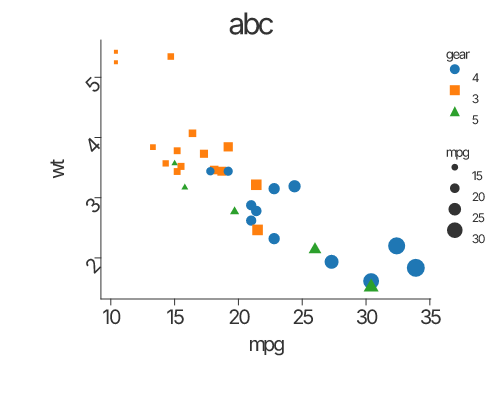
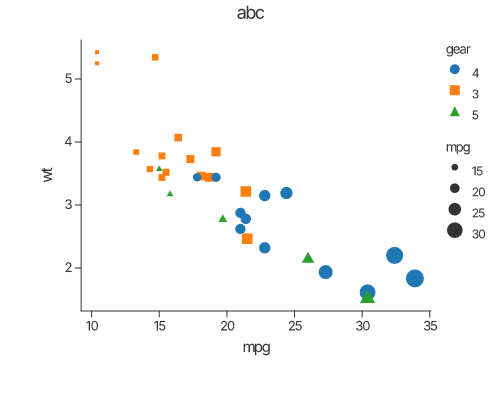
chars gap

diff --git a/src/render/backend/raster.rs b/src/render/backend/raster.rs
@@ -267,157 +267,125 @@ impl<'a> RenderBackend for RasterBackend<'a> {
         }
     }
 
-    fn draw_text(&mut self, config: TextConfig) {
-        // 1. Safety check: avoid unnecessary processing for empty text or missing colors
-        if config.color.is_none() || config.text.is_empty() {
-            return;
-        }
-
-        // --- VECTOR TUNING: STEM DARKENING ---
-        // Pure vector rendering often looks "thin" on digital screens because anti-aliasing
-        // softens the edges. Adding a very fine stroke (0.2px) mimics "Stem Darkening",
-        // a technique used by high-end engines like FreeType to make text look bolder and more legible.
-        const STEM_DARKENING_WIDTH: f32 = 0.01;
-
-        // Load font and scale it to the requested pixel size
-        let font = crate::core::utils::get_raster_font(&config.font_family);
-        let scale = PxScale::from(config.font_size);
-        let scaled_font = font.as_scaled(scale);
-
-        // Initial cursor coordinates (using f32 for sub-pixel precision to maintain "vector feel")
-        let mut x = config.x as f32;
-        let mut y = config.y as f32;
-
-        // 2. LAYOUT CALCULATION: Handle text alignment (Start, Middle, End)
-        let width = self.get_precise_width(&config.text, scale, &font);
-        match config.text_anchor.as_str() {
-            "middle" => x -= width / 2.0,
-            "end" => x -= width,
-            _ => {}
-        }
-
-        // 3. BASELINE CALCULATION: Handle vertical positioning (Dominant Baseline)
-        let ascent = scaled_font.ascent();
-        let descent = scaled_font.descent();
-        match config.dominant_baseline.as_str() {
-            "hanging" => y += ascent,
-            "central" | "middle" => y += (ascent - descent) / 2.0 - descent,
-            _ => {}
-        }
-
-        // Prepare Skia-style paint and color
-        let base_color = self.to_skia_color(&config.color, config.opacity).unwrap();
-        let mut paint = tiny_skia::Paint::default();
-        paint.set_color(base_color);
-        paint.anti_alias = true; // Crucial for smooth, non-pixelated vector edges
-
-        // Constants for mapping font units (EM) to screen pixels
-        let mut last_glyph_id = None;
-        let units_per_em = font.units_per_em().unwrap_or(1000.0) as f32;
-        let font_to_px_scale = (config.font_size as f32) / units_per_em;
-
-        // Iterate through each character in the string
-        for c in config.text.chars() {
-            let glyph_id = font.glyph_id(c);
-
-            // Apply Kerning: Adjust horizontal spacing between specific pairs (e.g., 'AV')
-            if let Some(last_id) = last_glyph_id {
-                x += scaled_font.kern(last_id, glyph_id);
-            }
-
-            // Retrieve the vector outline for the current glyph
-            if let Some(outline) = font.outline(glyph_id) {
-                let mut pb = tiny_skia::PathBuilder::new();
-
-                // Helper closure to convert font-space points to screen-space pixels
-                // Note: We flip the Y coordinate because font space is Y-up and screen space is Y-down.
-                let map_p = |p: ab_glyph::Point| (p.x * font_to_px_scale, -p.y * font_to_px_scale);
-
-                // --- CRITICAL FIX: PATH CONTINUITY ---
-                // To fill a shape, the path must be a continuous series of connected lines/curves.
-                // We track 'current_pen_pos' to avoid redundant 'move_to' calls, which break the shape.
-                let mut current_pen_pos: Option<ab_glyph::Point> = None;
-
-                for curve in outline.curves {
-                    // Determine the start and end points of the current segment
-                    let (start_pt, end_pt) = match curve {
-                        ab_glyph::OutlineCurve::Line(p1, p2) => (p1, p2),
-                        ab_glyph::OutlineCurve::Quad(p1, _, p3) => (p1, p3),
-                        ab_glyph::OutlineCurve::Cubic(p1, _, _, p4) => (p1, p4),
-                    };
-
-                    // Only "lift the pen" and move if the new segment doesn't start where the last one ended.
-                    // This ensures we create closed 'contours' that can be filled with color.
-                    if current_pen_pos != Some(start_pt) {
-                        let (sx, sy) = map_p(start_pt);
-                        pb.move_to(sx, sy);
-                    }
-
-                    // Add the specific geometric primitive to the path
-                    match curve {
-                        ab_glyph::OutlineCurve::Line(_, p2) => {
-                            let (px, py) = map_p(p2);
-                            pb.line_to(px, py);
-                        }
-                        ab_glyph::OutlineCurve::Quad(_, p2, p3) => {
-                            let (p2x, p2y) = map_p(p2);
-                            let (p3x, p3y) = map_p(p3);
-                            pb.quad_to(p2x, p2y, p3x, p3y);
-                        }
-                        ab_glyph::OutlineCurve::Cubic(_, p2, p3, p4) => {
-                            let (p2x, p2y) = map_p(p2);
-                            let (p3x, p3y) = map_p(p3);
-                            let (p4x, p4y) = map_p(p4);
-                            pb.cubic_to(p2x, p2y, p3x, p3y, p4x, p4y);
-                        }
-                    }
-                    // Update the pen position for the next iteration
-                    current_pen_pos = Some(end_pt);
-                }
-
-                // Finalize the path and apply transformations
-                if let Some(path) = pb.finish() {
-                    let mut transform = self.transform;
-
-                    // 4. ROTATION LOGIC: Rotate around the anchor point (config.x, config.y)
-                    if config.angle != 0.0 {
-                        transform = transform
-                            .pre_translate(config.x as f32, config.y as f32)
-                            .pre_rotate(config.angle as f32)
-                            .pre_translate(-(config.x as f32), -(config.y as f32));
-                    }
-
-                    // Position the high-res vector path at the current cursor 'x' and 'y'
-                    transform = transform.pre_translate(x, y);
-
-                    // --- RENDERING PHASE ---
-
-                    // Pass 1: FILL (The core color)
-                    // This fills the interior of the closed path. Since the path is now continuous,
-                    // the interior will be solid and dark.
-                    self.pixmap.fill_path(
-                        &path,
-                        &paint,
-                        tiny_skia::FillRule::Winding,
-                        transform,
-                        None,
-                    );
-
-                    // Pass 2: STROKE (The darkening agent)
-                    // We add a tiny stroke to reinforce the edges. This compensates for
-                    // LCD/OLED sub-pixel rendering effects that can make thin fonts look grey.
-                    let mut stroke = tiny_skia::Stroke::default();
-                    stroke.width = STEM_DARKENING_WIDTH;
-                    self.pixmap
-                        .stroke_path(&path, &paint, &stroke, transform, None);
-                }
-            }
-
-            // Move the cursor forward by the glyph's advance width for the next character
-            x += scaled_font.h_advance(glyph_id);
-            last_glyph_id = Some(glyph_id);
-        }
+fn draw_text(&mut self, config: TextConfig) {
+    if config.color.is_none() || config.text.is_empty() {
+        return;
     }
+
+    let font = crate::core::utils::get_raster_font(&config.font_family);
+    let scale = PxScale::from(config.font_size);
+    let scaled_font = font.as_scaled(scale);
+
+    let anchor_x = config.x as f32;
+    let anchor_y = config.y as f32;
+
+    // 1. 严格计算水平宽度 (用于 text-anchor)
+    let width = self.get_precise_width(&config.text, scale, &font);
+    const TRACKING: f32 = 0.3;
+    let total_tracking = if config.text.len() > 1 { (config.text.len() - 1) as f32 * TRACKING } else { 0.0 };
+    let full_width = width + total_tracking;
+
+    let mut dx = 0.0;
+    match config.text_anchor.as_str() {
+        "middle" => dx -= full_width / 2.0,
+        "end" => dx -= full_width,
+        _ => {}
+    }
+
+    // 2. 严格对齐 SVG dominant-baseline
+    // 在 SVG 中，默认 y 就是 baseline，所以 dy = 0
+    let mut dy = 0.0;
+    let ascent = scaled_font.ascent();
+    let descent = scaled_font.descent();
+
+    match config.dominant_baseline.as_str() {
+        "hanging" => dy += ascent, 
+        "central" | "middle" => {
+            // 这是关键：SVG 的 middle 是相对于 Baseline 的偏移
+            // 通常是 (ascent + descent) / 2，但注意 descent 是负值
+            dy += (ascent + descent) / 2.0; 
+        }
+        _ => {} // alphabetic: dy = 0 (baseline 对齐)
+    }
+
+    // 3. 构建与 SVG 相同的变换矩阵
+    // SVG: transform="rotate(angle, x, y)"
+    let mut global_transform = self.transform;
+    if config.angle != 0.0 {
+        global_transform = global_transform
+            .pre_translate(anchor_x, anchor_y)
+            .pre_rotate(config.angle as f32)
+            .pre_translate(-anchor_x, -anchor_y);
+    }
+
+    let mut current_x = anchor_x + dx;
+    let draw_y = anchor_y + dy;
+
+    let base_color = self.to_skia_color(&config.color, config.opacity).unwrap();
+    let mut paint = tiny_skia::Paint::default();
+    paint.set_color(base_color);
+    paint.anti_alias = true;
+
+    let units_per_em = font.units_per_em().unwrap_or(1000.0) as f32;
+    let font_to_px = (config.font_size as f32) / units_per_em;
+
+    let mut last_glyph_id = None;
+
+    for c in config.text.chars() {
+        let glyph_id = font.glyph_id(c);
+        if let Some(last_id) = last_glyph_id {
+            current_x += scaled_font.kern(last_id, glyph_id);
+        }
+
+        if let Some(outline) = font.outline(glyph_id) {
+            let mut pb = tiny_skia::PathBuilder::new();
+            // 注意：这里 p.y 取负是因为 ab_glyph 坐标系是向上增长的
+            let map_p = |p: ab_glyph::Point| (p.x * font_to_px, -p.y * font_to_px);
+
+            let mut current_pen: Option<ab_glyph::Point> = None;
+            for curve in outline.curves {
+                let (start, end) = match curve {
+                    ab_glyph::OutlineCurve::Line(p1, p2) => (p1, p2),
+                    ab_glyph::OutlineCurve::Quad(p1, _, p3) => (p1, p3),
+                    ab_glyph::OutlineCurve::Cubic(p1, _, _, p4) => (p1, p4),
+                };
+
+                if current_pen != Some(start) {
+                    let (sx, sy) = map_p(start);
+                    pb.move_to(sx, sy);
+                }
+
+                match curve {
+                    ab_glyph::OutlineCurve::Line(_, p2) => { let (px, py) = map_p(p2); pb.line_to(px, py); }
+                    ab_glyph::OutlineCurve::Quad(_, p2, p3) => {
+                        let (p2x, p2y) = map_p(p2); let (p3x, p3y) = map_p(p3);
+                        pb.quad_to(p2x, p2y, p3x, p3y);
+                    }
+                    ab_glyph::OutlineCurve::Cubic(_, p2, p3, p4) => {
+                        let (p2x, p2y) = map_p(p2); let (p3x, p3y) = map_p(p3);
+                        let (p4x, p4y) = map_p(p4);
+                        pb.cubic_to(p2x, p2y, p3x, p3y, p4x, p4y);
+                    }
+                }
+                current_pen = Some(end);
+            }
+
+            if let Some(path) = pb.finish() {
+                // 先应用旋转，再平移到当前字母的 baseline 位置
+                let glyph_transform = global_transform.pre_translate(current_x, draw_y);
+                self.pixmap.fill_path(&path, &paint, tiny_skia::FillRule::Winding, glyph_transform, None);
+                
+                // 极细微描边增强
+                let mut stroke = tiny_skia::Stroke::default();
+                stroke.width = 0.05;
+                self.pixmap.stroke_path(&path, &paint, &stroke, glyph_transform, None);
+            }
+        }
+
+        current_x += scaled_font.h_advance(glyph_id) + TRACKING;
+        last_glyph_id = Some(glyph_id);
+    }
+}
 
     fn draw_gradient_rect(&mut self, config: GradientRectConfig) {
         let GradientRectConfig {

diff --git a/examples/save_png.rs b/examples/save_png.rs
@@ -15,10 +15,10 @@ fn main() -> Result<(), Box<dyn Error>> {
         ))?
         .coord_flip()
         .configure_theme(|t| {
-            t.with_x_tick_label_angle(-45.0)
-                .with_tick_label_size(20.0)
-                .with_label_size(20.0)
-                .with_title_size(30.0)
+            t.with_x_tick_label_angle(-0.0)
+                //.with_tick_label_size(20.0)
+                //.with_label_size(20.0)
+                //.with_title_size(30.0)
         })
         .with_title("abc")
         .save("docs/src/images/scatter.png")?;

diff --git a/examples/scatter.rs b/examples/scatter.rs
@@ -14,7 +14,7 @@ fn main() -> Result<(), Box<dyn Error>> {
             alt::size("mpg"),
         ))?
         .coord_flip()
-        .configure_theme(|t| t.with_x_tick_label_angle(-45.0))
+        .configure_theme(|t| t.with_x_tick_label_angle(-0.0))
         .with_title("abc")
         .save("docs/src/images/scatter.svg")?;
 